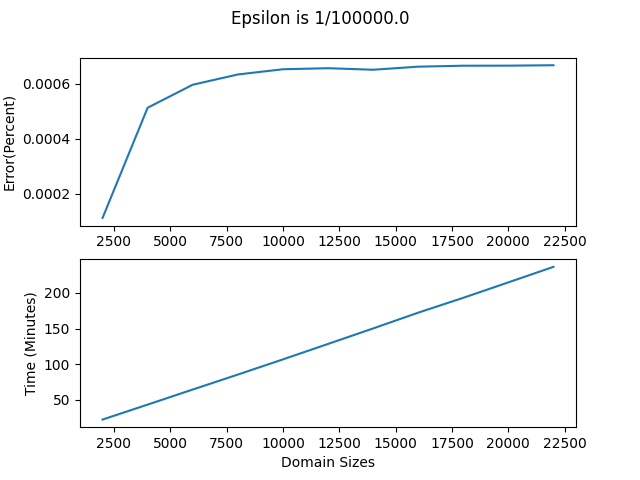
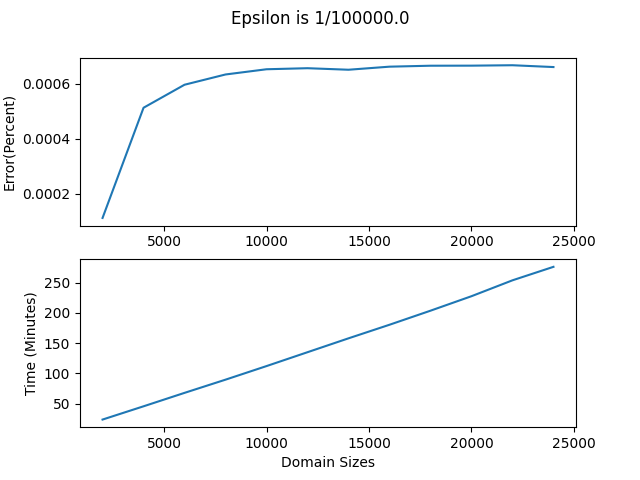
updated code

diff --git a/non-local-curvature/nonLocalCurveEval.py b/non-local-curvature/nonLocalCurveEval.py
@@ -47,14 +47,14 @@ class Eval:
             self.char_func = func
             for i in range(0,100):
                 time1 = time.time()
-                epsilon = 10**(6) * (100-i)
+                epsilon = 10**(-6) * (100-i)
                 self.val = self.eval(epsilon)
                 time2 = time.time()
                 self.actual = -5.24411510858423962093
                 print('Evaluation of Integral took {:.3f} minutes'.format( (time2-time1)/60))
                 error = abs(abs(self.actual - self.val)/self.actual)
                 print('Error evaluate to, {:.2f}'.format(error*100))
-                with open(f'./results_{self.char_func.alg}.txt', 'a') as f:
+                with open(f'./results_{self.char_func.alg}_close_zoom.txt', 'a') as f:
                     f.write(f'Error percent: {error}\tEpsilon:1/{float(epsilon)}\tDomain Size: {2*self.char_func.domain_size} \tIntegration Evaluation: {self.val}\t Time: {((time2-time1)/60)}\n')
 
         #self.weezy_integration = lambda func, range: jack_integral.integrate(func, range)
@@ -89,8 +89,10 @@ class Eval:
         
         #I_1 = scipy.integrate.dblquad(lambda x,y: self.holder(x,y), self.char_func.start[1]-epsilon, self.char_func.start[1]-float(1/epsilon),  self.char_func.start[0]-epsilon, self.char_func.start[0]-float(1/epsilon))[0]
         #I_2 = scipy.integrate.dblquad(lambda x,y: self.holder(x,y), self.char_func.start[1]+float(1/epsilon), self.char_func.start[1]+epsilon,  self.char_func.start[0]+float(1/epsilon), self.char_func.start[0]+epsilon)[0]
-
-        I = scipy.integrate.dblquad(lambda r,theta: self.holder(r,theta), 0, 2*np.pi, float(1/epsilon), np.inf)[0]
+        if epsilon > 1:
+            I = scipy.integrate.dblquad(lambda r,theta: self.holder(r,theta), 0, 2*np.pi, float(1/epsilon), np.inf)[0]
+        else:
+            I = scipy.integrate.dblquad(lambda r,theta: self.holder(r,theta), 0, 2*np.pi, float(epsilon), np.inf)[0]
         print("Integral evals to: " + str(I))
         return I
 
